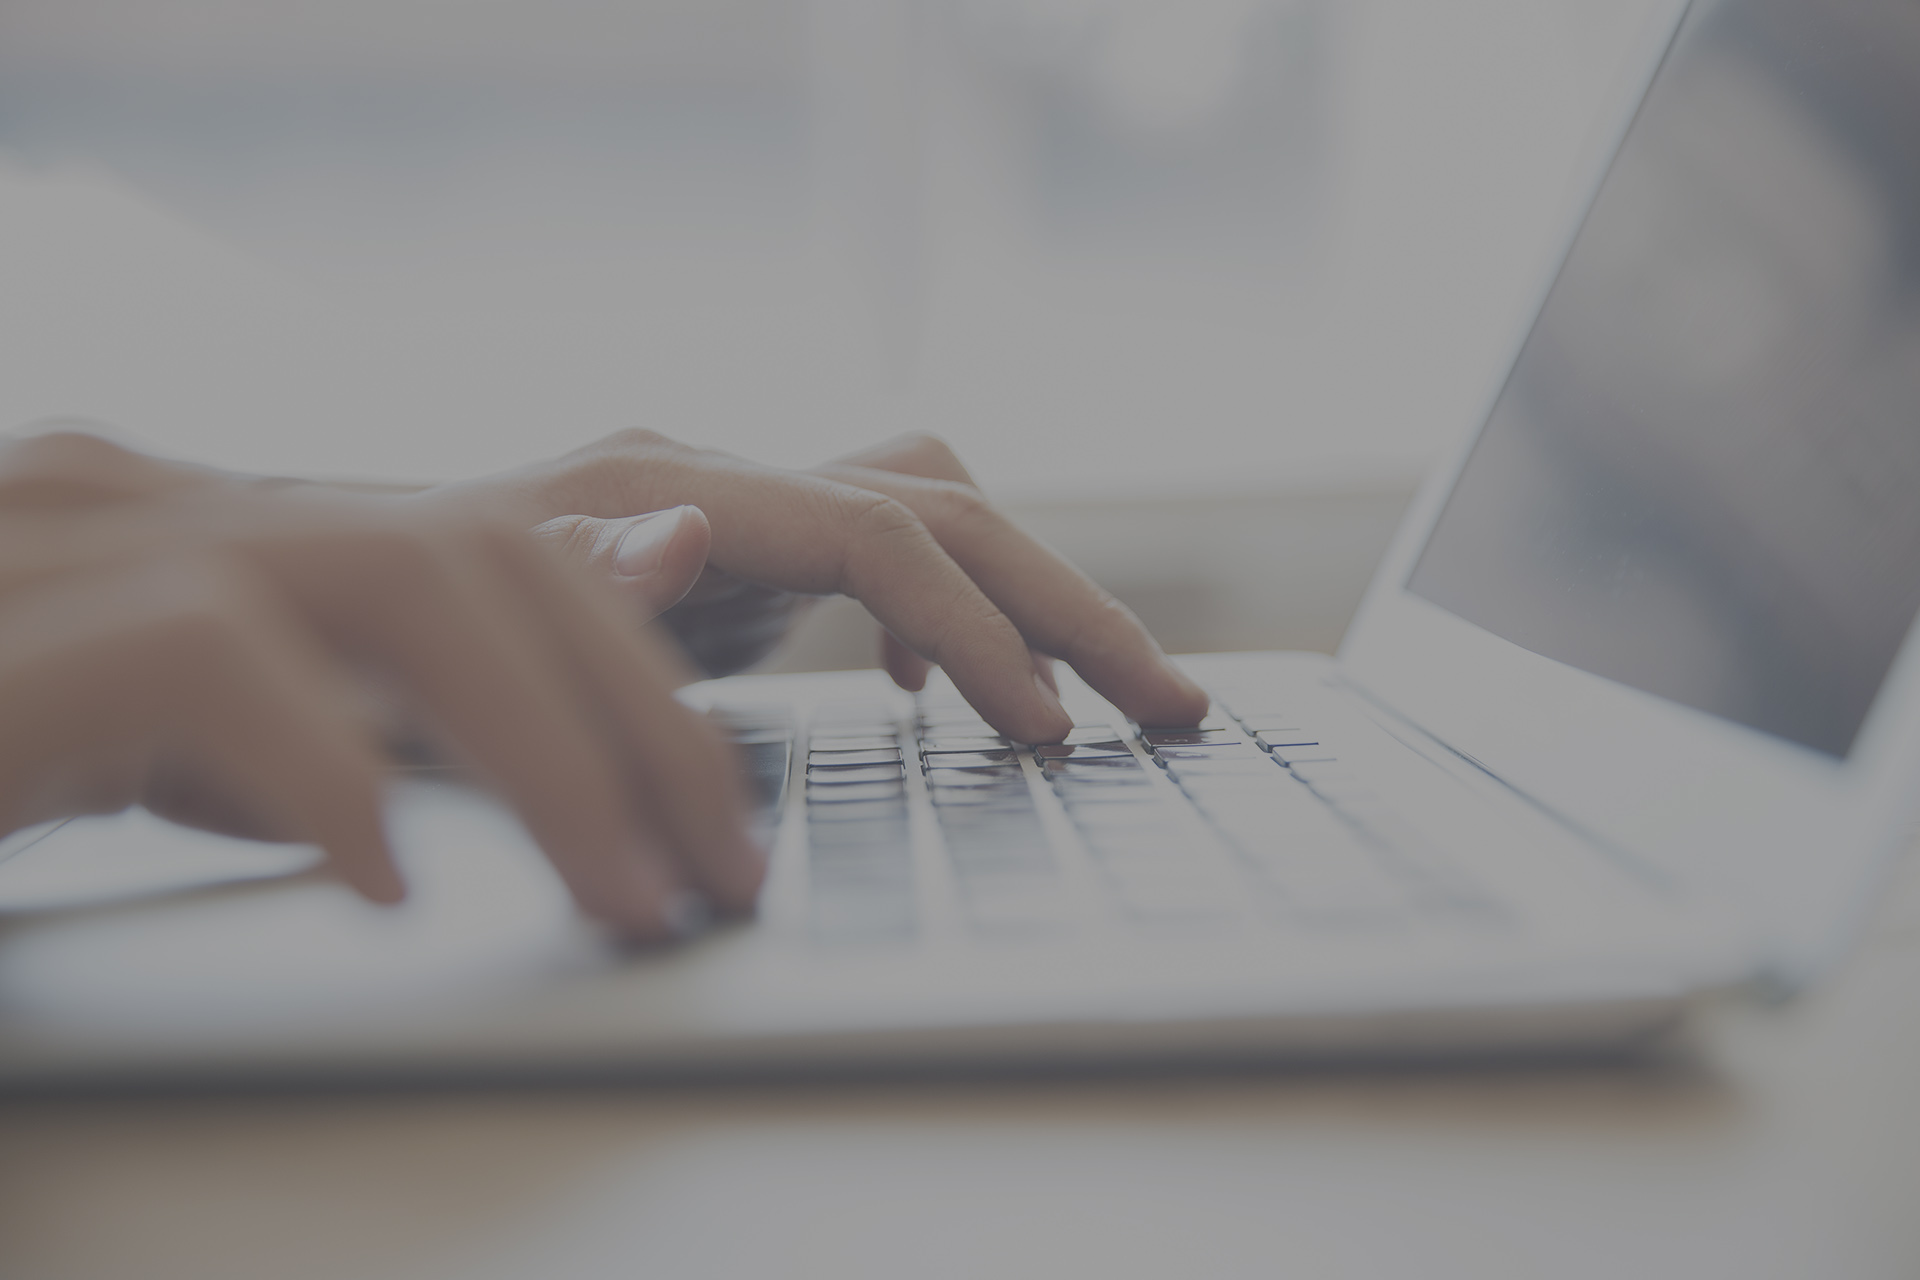
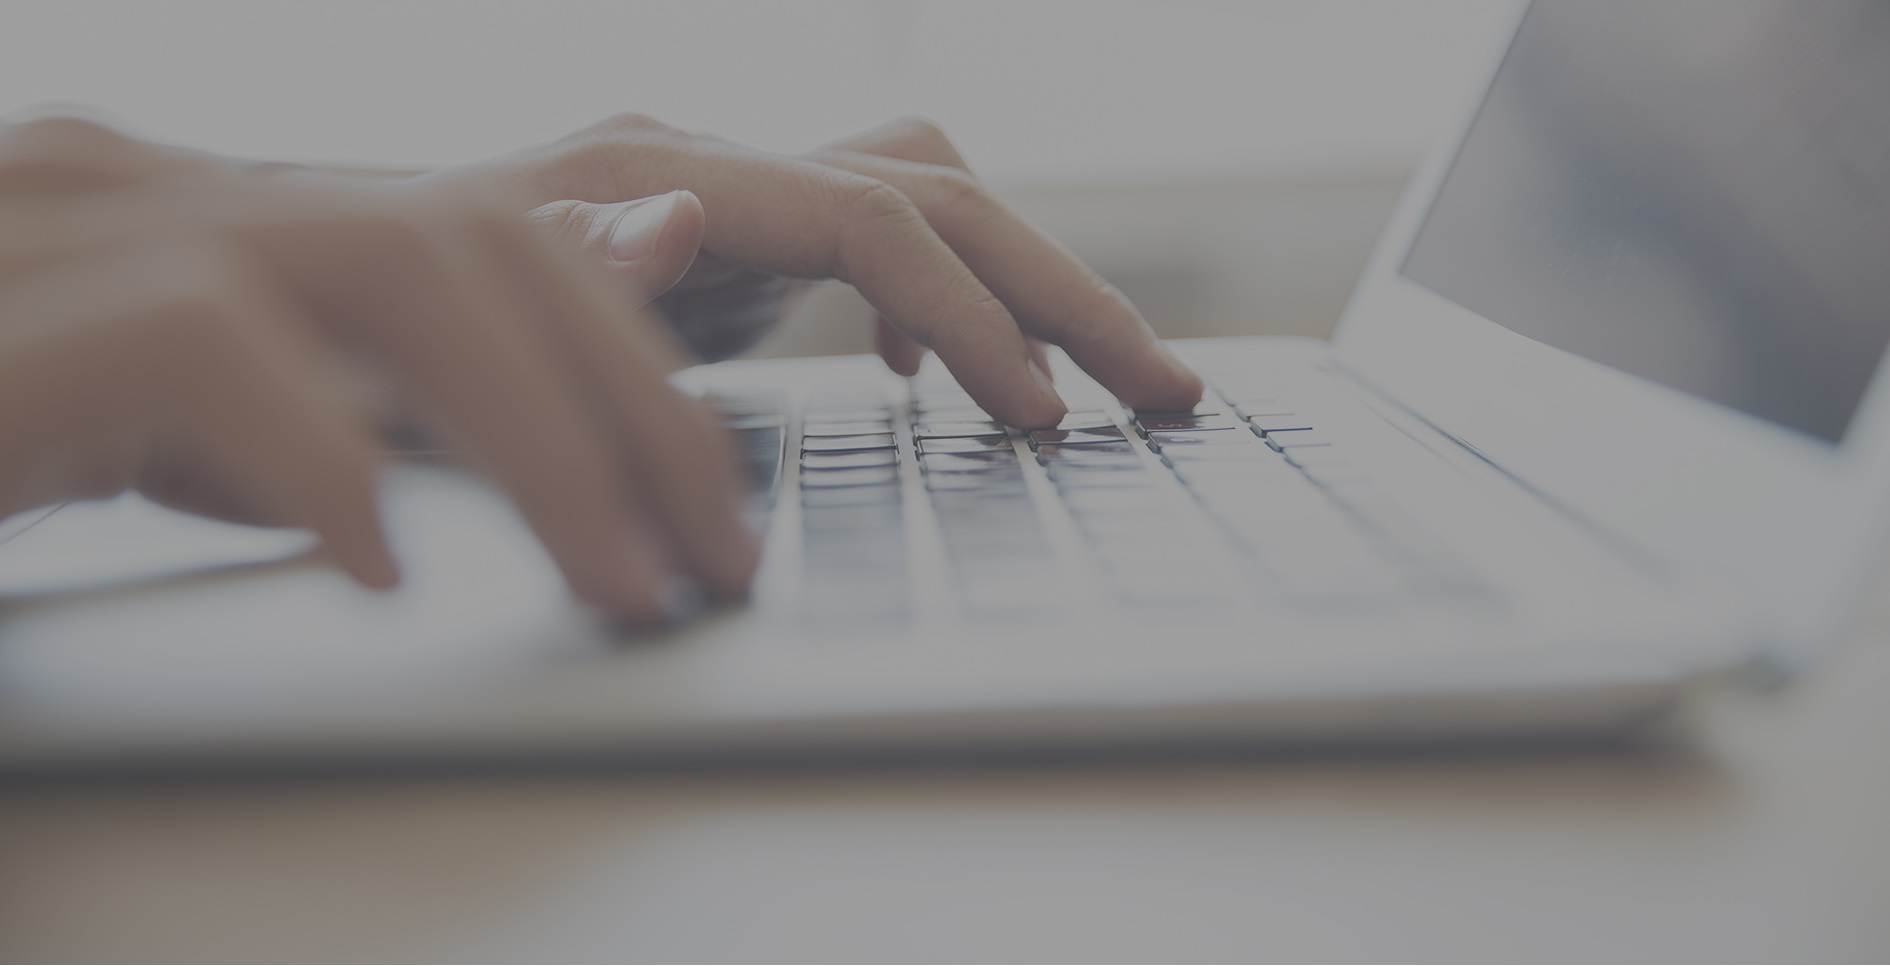
noveno-avance

diff --git a/style/style.css b/style/style.css
@@ -44,7 +44,7 @@ a{
 }
 
 .cabeceraInicio{
-    background-image: url(../assets/cabecera4.jpg);
+    background-image: url(../assets/cabecera.jpg);
     display: flex;
     height: 460px;
     width: 100%;
